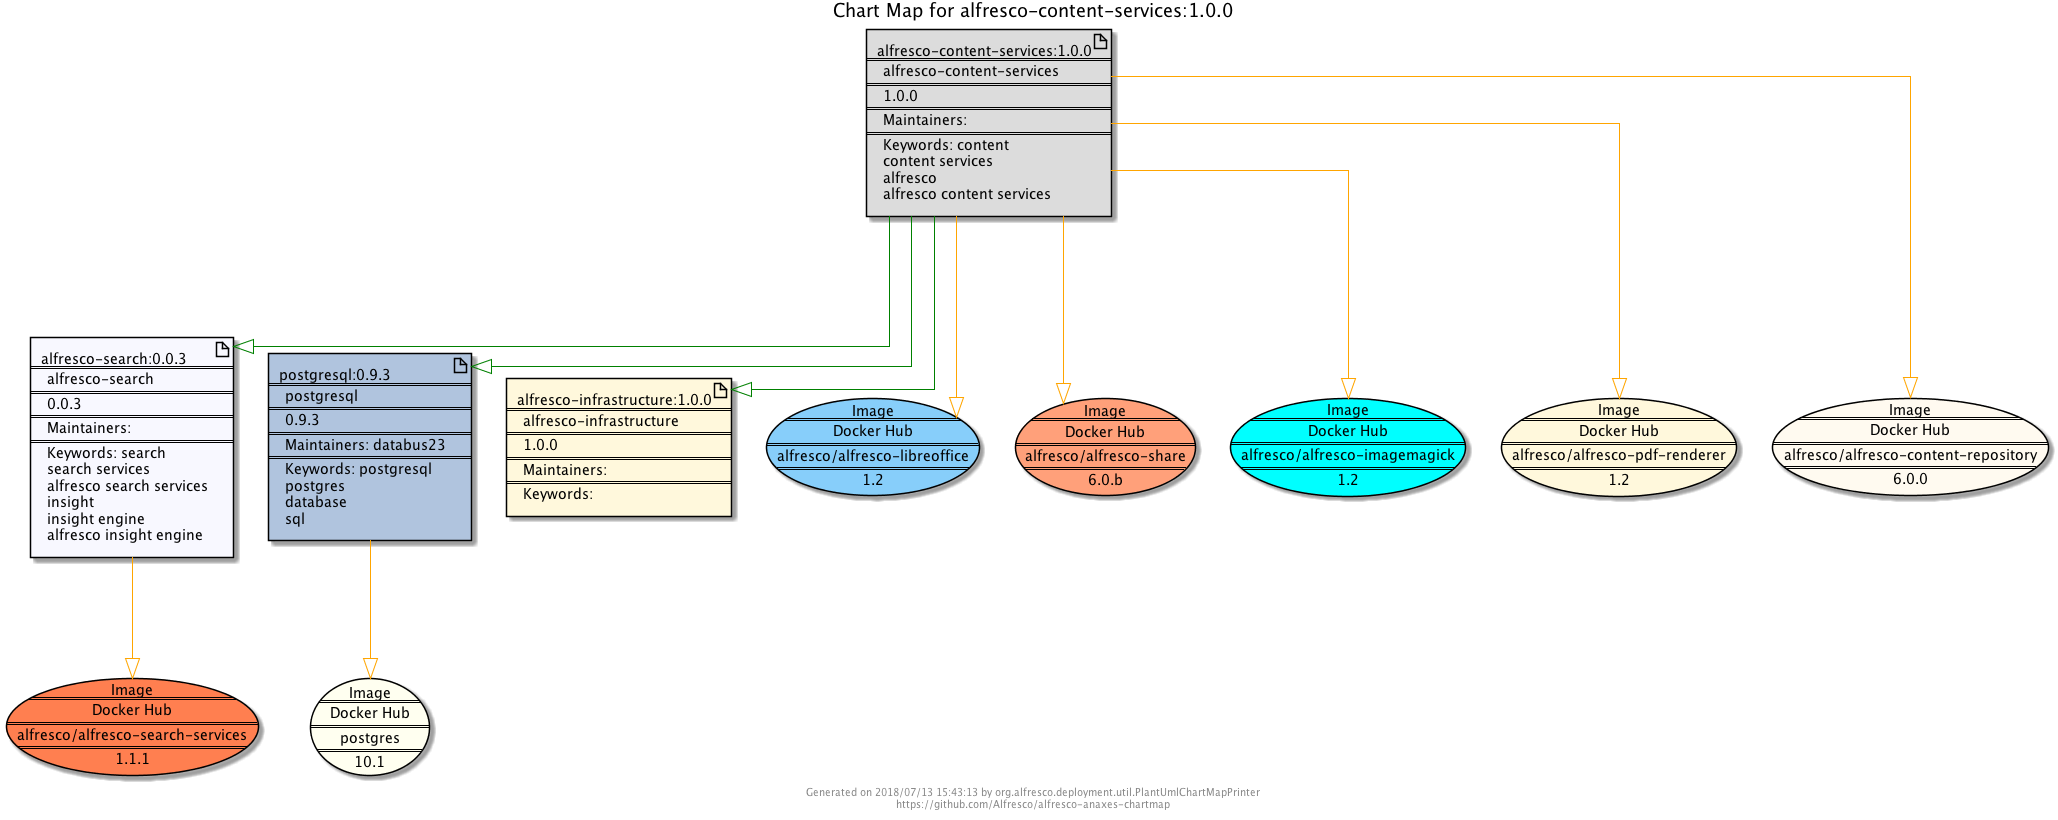
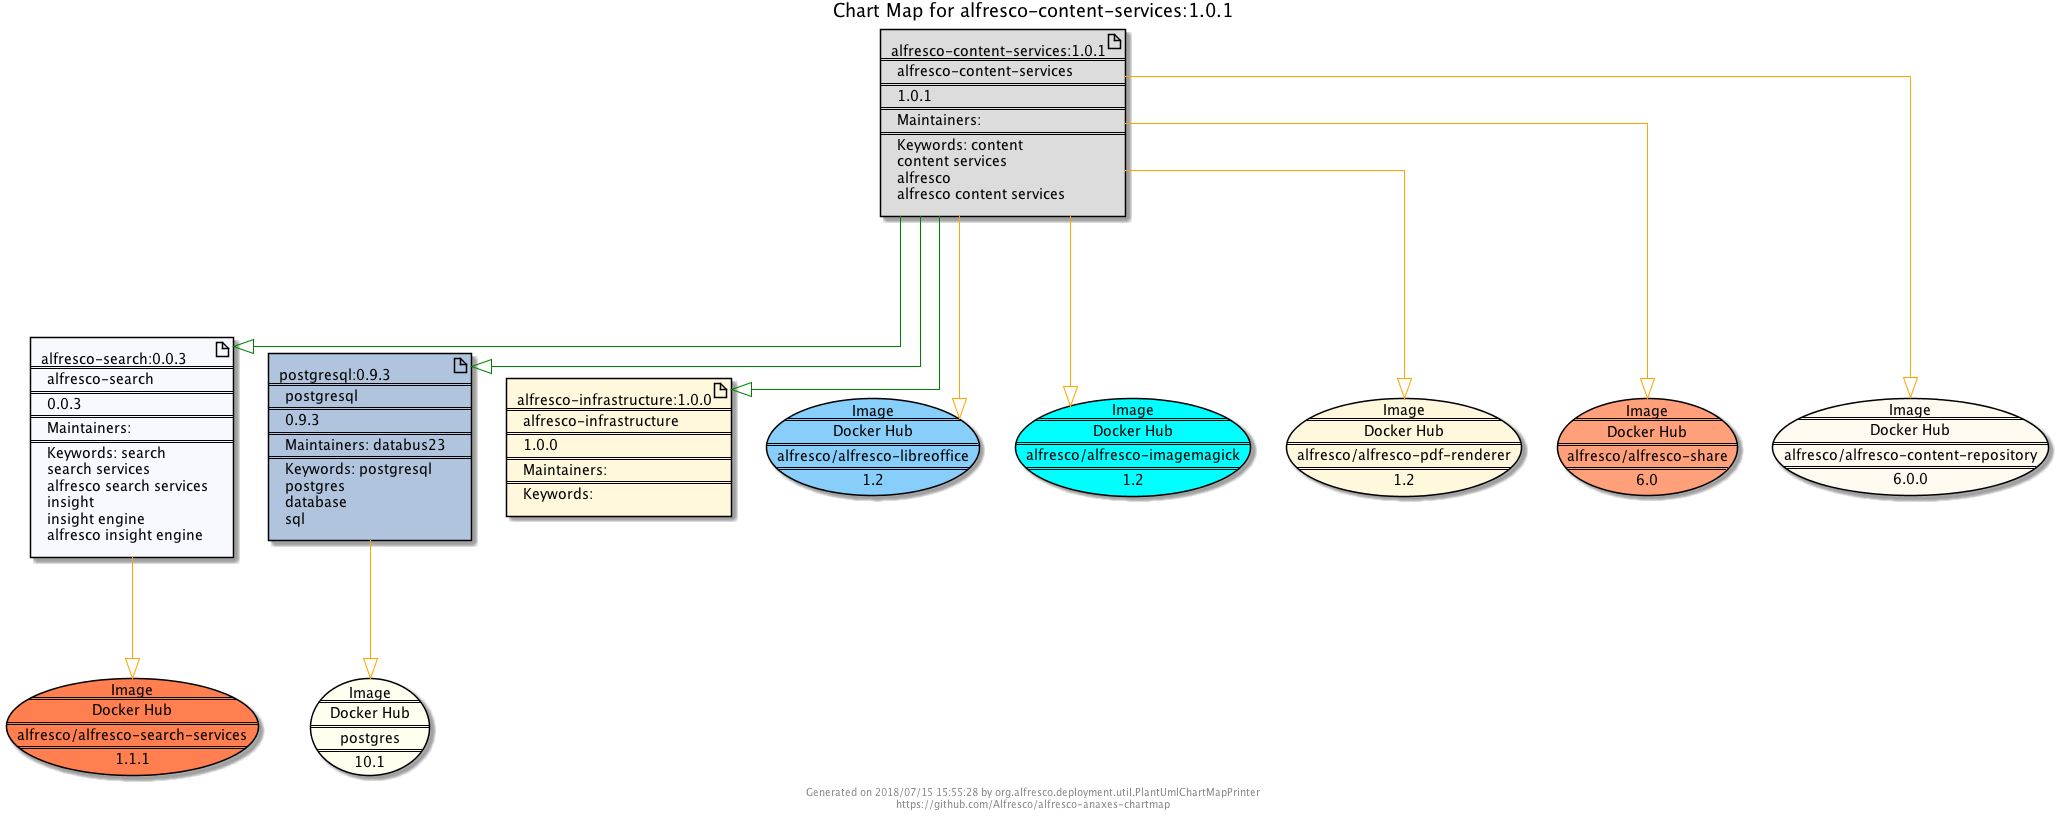
updated examples to use Alfresco Content Services 1.0.1

Changed region(s): [[0.4976, 0.4573, 0.8707, 0.6098], [0.4043, 0.0305, 0.5598, 0.2744], [0.4354, 0.2744, 0.4665, 0.4268]]

diff --git a/README.md b/README.md
@@ -76,12 +76,12 @@ java -jar chartmap-1.0-SNAPSHOT.jar -c "wordpress:0.8.17" -r -v -o "wordpress.pu
 ```
 ##### Generating a Chartmap using a file specification
 ```
-java -jar chartmap-1.0-SNAPSHOT.jar -f "/Users/melahn/helm/alfresco-dbp-0.3.0.tgz" " -d "/Users/melahn/.helm" -o  alfresco-dbp.puml -v
+java -jar chartmap-1.0-SNAPSHOT.jar -f "/Users/melahn/helm/alfresco-content-services-1.0.1.tgz" " -d "/Users/melahn/.helm" -o  alfresco-dbp.puml -v
 
 ```
 ##### Generating a Chartmap using a url specification
 ```
-java -jar chartmap-1.0-SNAPSHOT.jar -u "http://kubernetes-charts.alfresco.com/incubator/alfresco-dbp-0.3.0.tgz" " -d "/Users/melahn/.helm" -o  alfresco-dbp.puml -v
+java -jar chartmap-1.0-SNAPSHOT.jar -u "http://kubernetes-charts.alfresco.com/stable/alfresco-content-services-1.0.1.tgz" " -d "/Users/melahn/.helm" -o  alfresco-dbp.puml -v
 
 ```
 ##### Generating a Chartmap using an appr specification
